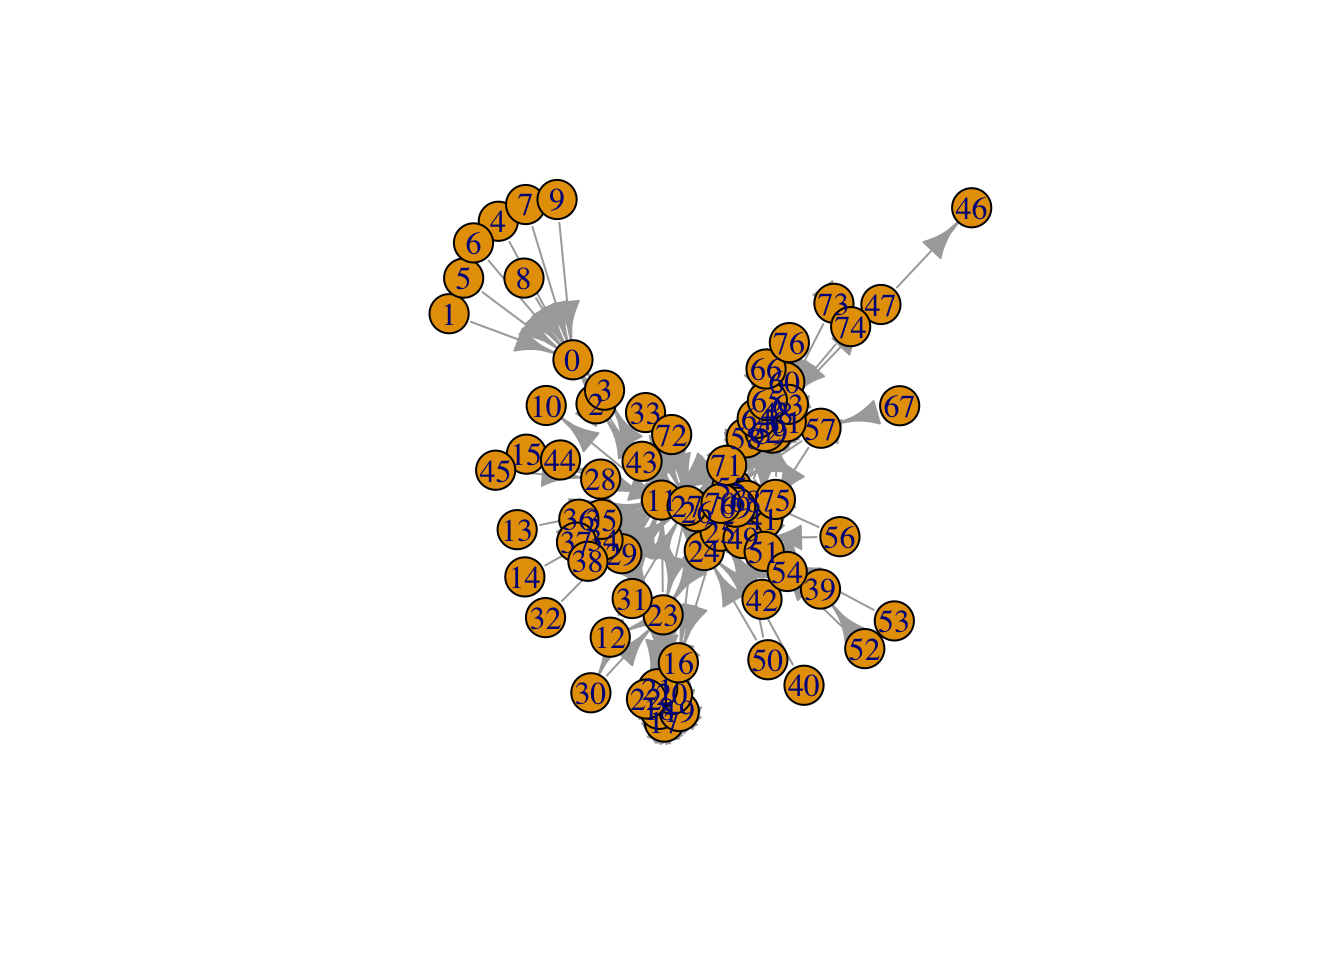
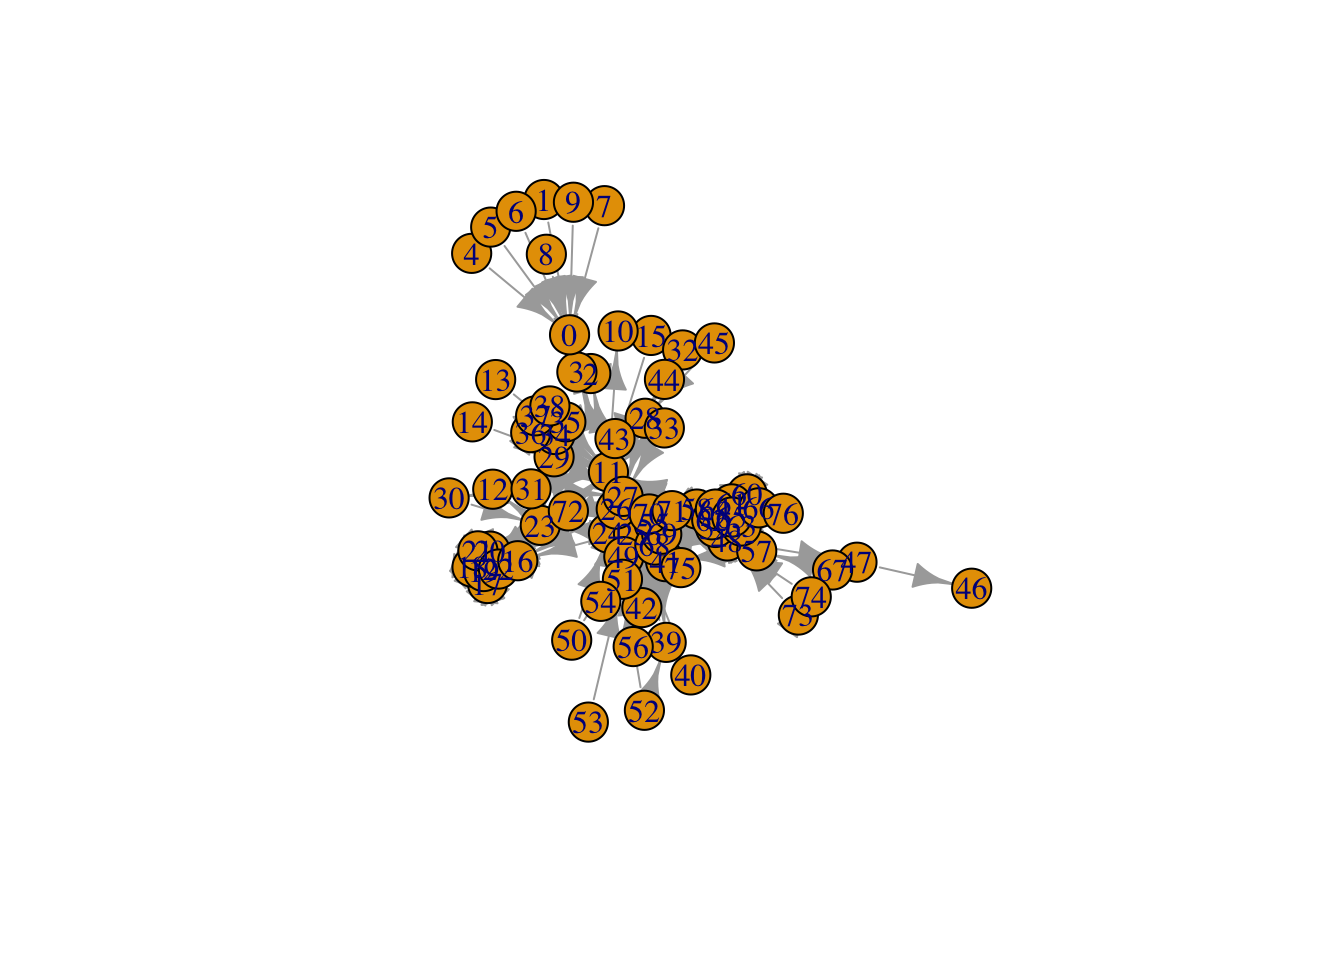
no jekyll render

Changed region(s): [[0.3125, 0.1875, 0.75, 0.7812], [0.6875, 0.1875, 0.75, 0.2812]]

diff --git a/_book/first-graphs.html b/_book/first-graphs.html
@@ -155,8 +155,9 @@ code span.wa { color: #60a0b0; font-weight: bold; font-style: italic; } /* Warni
 <li class="chapter" data-level="2" data-path="intro.html"><a href="intro.html"><i class="fa fa-check"></i><b>2</b> Introduction</a></li>
 <li class="chapter" data-level="3" data-path="literature.html"><a href="literature.html"><i class="fa fa-check"></i><b>3</b> Literature</a></li>
 <li class="chapter" data-level="4" data-path="first-graphs.html"><a href="first-graphs.html"><i class="fa fa-check"></i><b>4</b> First Graphs</a><ul>
-<li class="chapter" data-level="4.1" data-path="first-graphs.html"><a href="first-graphs.html#stop-light"><i class="fa fa-check"></i><b>4.1</b> Stop light</a></li>
-<li class="chapter" data-level="4.2" data-path="first-graphs.html"><a href="first-graphs.html#les-miserabe"><i class="fa fa-check"></i><b>4.2</b> Les Miserabe</a></li>
+<li class="chapter" data-level="4.1" data-path="first-graphs.html"><a href="first-graphs.html#les-miserable-dataset"><i class="fa fa-check"></i><b>4.1</b> Les Miserable Dataset</a></li>
+<li class="chapter" data-level="4.2" data-path="first-graphs.html"><a href="first-graphs.html#stop-light"><i class="fa fa-check"></i><b>4.2</b> Stop light</a></li>
+<li class="chapter" data-level="4.3" data-path="first-graphs.html"><a href="first-graphs.html#les-miserabe"><i class="fa fa-check"></i><b>4.3</b> Les Miserabe</a></li>
 </ul></li>
 </ul>
 
@@ -177,8 +178,8 @@ code span.wa { color: #60a0b0; font-weight: bold; font-style: italic; } /* Warni
             <section class="normal" id="section-">
 <div id="first-graphs" class="section level1">
 <h1><span class="header-section-number">Chapter 4</span> First Graphs</h1>
-<div id="stop-light" class="section level2">
-<h2><span class="header-section-number">4.1</span> Stop light</h2>
+<div id="les-miserable-dataset" class="section level2">
+<h2><span class="header-section-number">4.1</span> Les Miserable Dataset</h2>
 <div class="sourceCode" id="cb3"><pre class="sourceCode r"><code class="sourceCode r"><a class="sourceLine" id="cb3-1" data-line-number="1"><span class="co"># Load igraph</span></a>
 <a class="sourceLine" id="cb3-2" data-line-number="2"><span class="kw">library</span>(igraph)</a>
 <a class="sourceLine" id="cb3-3" data-line-number="3"></a>
@@ -202,6 +203,9 @@ code span.wa { color: #60a0b0; font-weight: bold; font-style: italic; } /* Warni
 <div class="sourceCode" id="cb6"><pre class="sourceCode r"><code class="sourceCode r"><a class="sourceLine" id="cb6-1" data-line-number="1"><span class="co"># make the graph a little prettier</span></a>
 <a class="sourceLine" id="cb6-2" data-line-number="2"><span class="kw">plot</span>(g, <span class="dt">edge.arrow.size=</span>.<span class="dv">2</span>, <span class="dt">vertex.label=</span><span class="ot">NA</span>, <span class="dt">vertex.size=</span><span class="dv">8</span>)</a></code></pre></div>
 <p><img src="book_hello_world_files/figure-html/unnamed-chunk-1-2.png" width="672" /></p>
+</div>
+<div id="stop-light" class="section level2">
+<h2><span class="header-section-number">4.2</span> Stop light</h2>
 <div class="sourceCode" id="cb7"><pre class="sourceCode r"><code class="sourceCode r"><a class="sourceLine" id="cb7-1" data-line-number="1"><span class="kw">library</span>(sigmajs)</a>
 <a class="sourceLine" id="cb7-2" data-line-number="2"><span class="kw">library</span>(tibble)</a></code></pre></div>
 <pre><code>## 
@@ -220,11 +224,11 @@ code span.wa { color: #60a0b0; font-weight: bold; font-style: italic; } /* Warni
 <a class="sourceLine" id="cb10-9" data-line-number="9"><span class="kw">sigmajs</span>() <span class="op">%&gt;%</span></a>
 <a class="sourceLine" id="cb10-10" data-line-number="10"><span class="st">  </span><span class="kw">sg_nodes</span>(nodes, id, label, time) <span class="op">%&gt;%</span></a>
 <a class="sourceLine" id="cb10-11" data-line-number="11"><span class="st">  </span><span class="kw">sg_edges</span>(edges, id, source, target) </a></code></pre></div>
-<div id="htmlwidget-83f2e48ee4b8b1be4795" style="width:100%;height:480px;" class="sigmajs html-widget"></div>
-<script type="application/json" data-for="htmlwidget-83f2e48ee4b8b1be4795">{"x":{"events":[],"kill":false,"data":{"nodes":[{"id":"1","label":"light","time":"100","x":" 3.337736","y":"17.390784"},{"id":"2","label":"red","time":" 30","x":"16.601812","y":" 8.046088"},{"id":"3","label":"yellow","time":" 10","x":"18.350433","y":" 4.815687"},{"id":"4","label":"green","time":" 20","x":"10.710034","y":" 2.648359"}],"edges":[{"id":"1","source":"1","target":"2"},{"id":"1","source":"1","target":"3"},{"id":"1","source":"1","target":"4"}]},"type":null,"button":[],"buttonevent":[],"crosstalk":{"crosstalk_key":null,"crosstalk_group":null}},"evals":[],"jsHooks":[]}</script>
+<div id="htmlwidget-e6a4e0baeea80cb02dcf" style="width:100%;height:480px;" class="sigmajs html-widget"></div>
+<script type="application/json" data-for="htmlwidget-e6a4e0baeea80cb02dcf">{"x":{"events":[],"kill":false,"data":{"nodes":[{"id":"1","label":"light","time":"100","x":" 1.974710","y":"15.920390"},{"id":"2","label":"red","time":" 30","x":" 3.673655","y":" 8.847453"},{"id":"3","label":"yellow","time":" 10","x":"16.181321","y":" 2.625081"},{"id":"4","label":"green","time":" 20","x":" 5.455467","y":" 5.171840"}],"edges":[{"id":"1","source":"1","target":"2"},{"id":"1","source":"1","target":"3"},{"id":"1","source":"1","target":"4"}]},"type":null,"button":[],"buttonevent":[],"crosstalk":{"crosstalk_key":null,"crosstalk_group":null}},"evals":[],"jsHooks":[]}</script>
 </div>
 <div id="les-miserabe" class="section level2">
-<h2><span class="header-section-number">4.2</span> Les Miserabe</h2>
+<h2><span class="header-section-number">4.3</span> Les Miserabe</h2>
 
 </div>
 </div>
